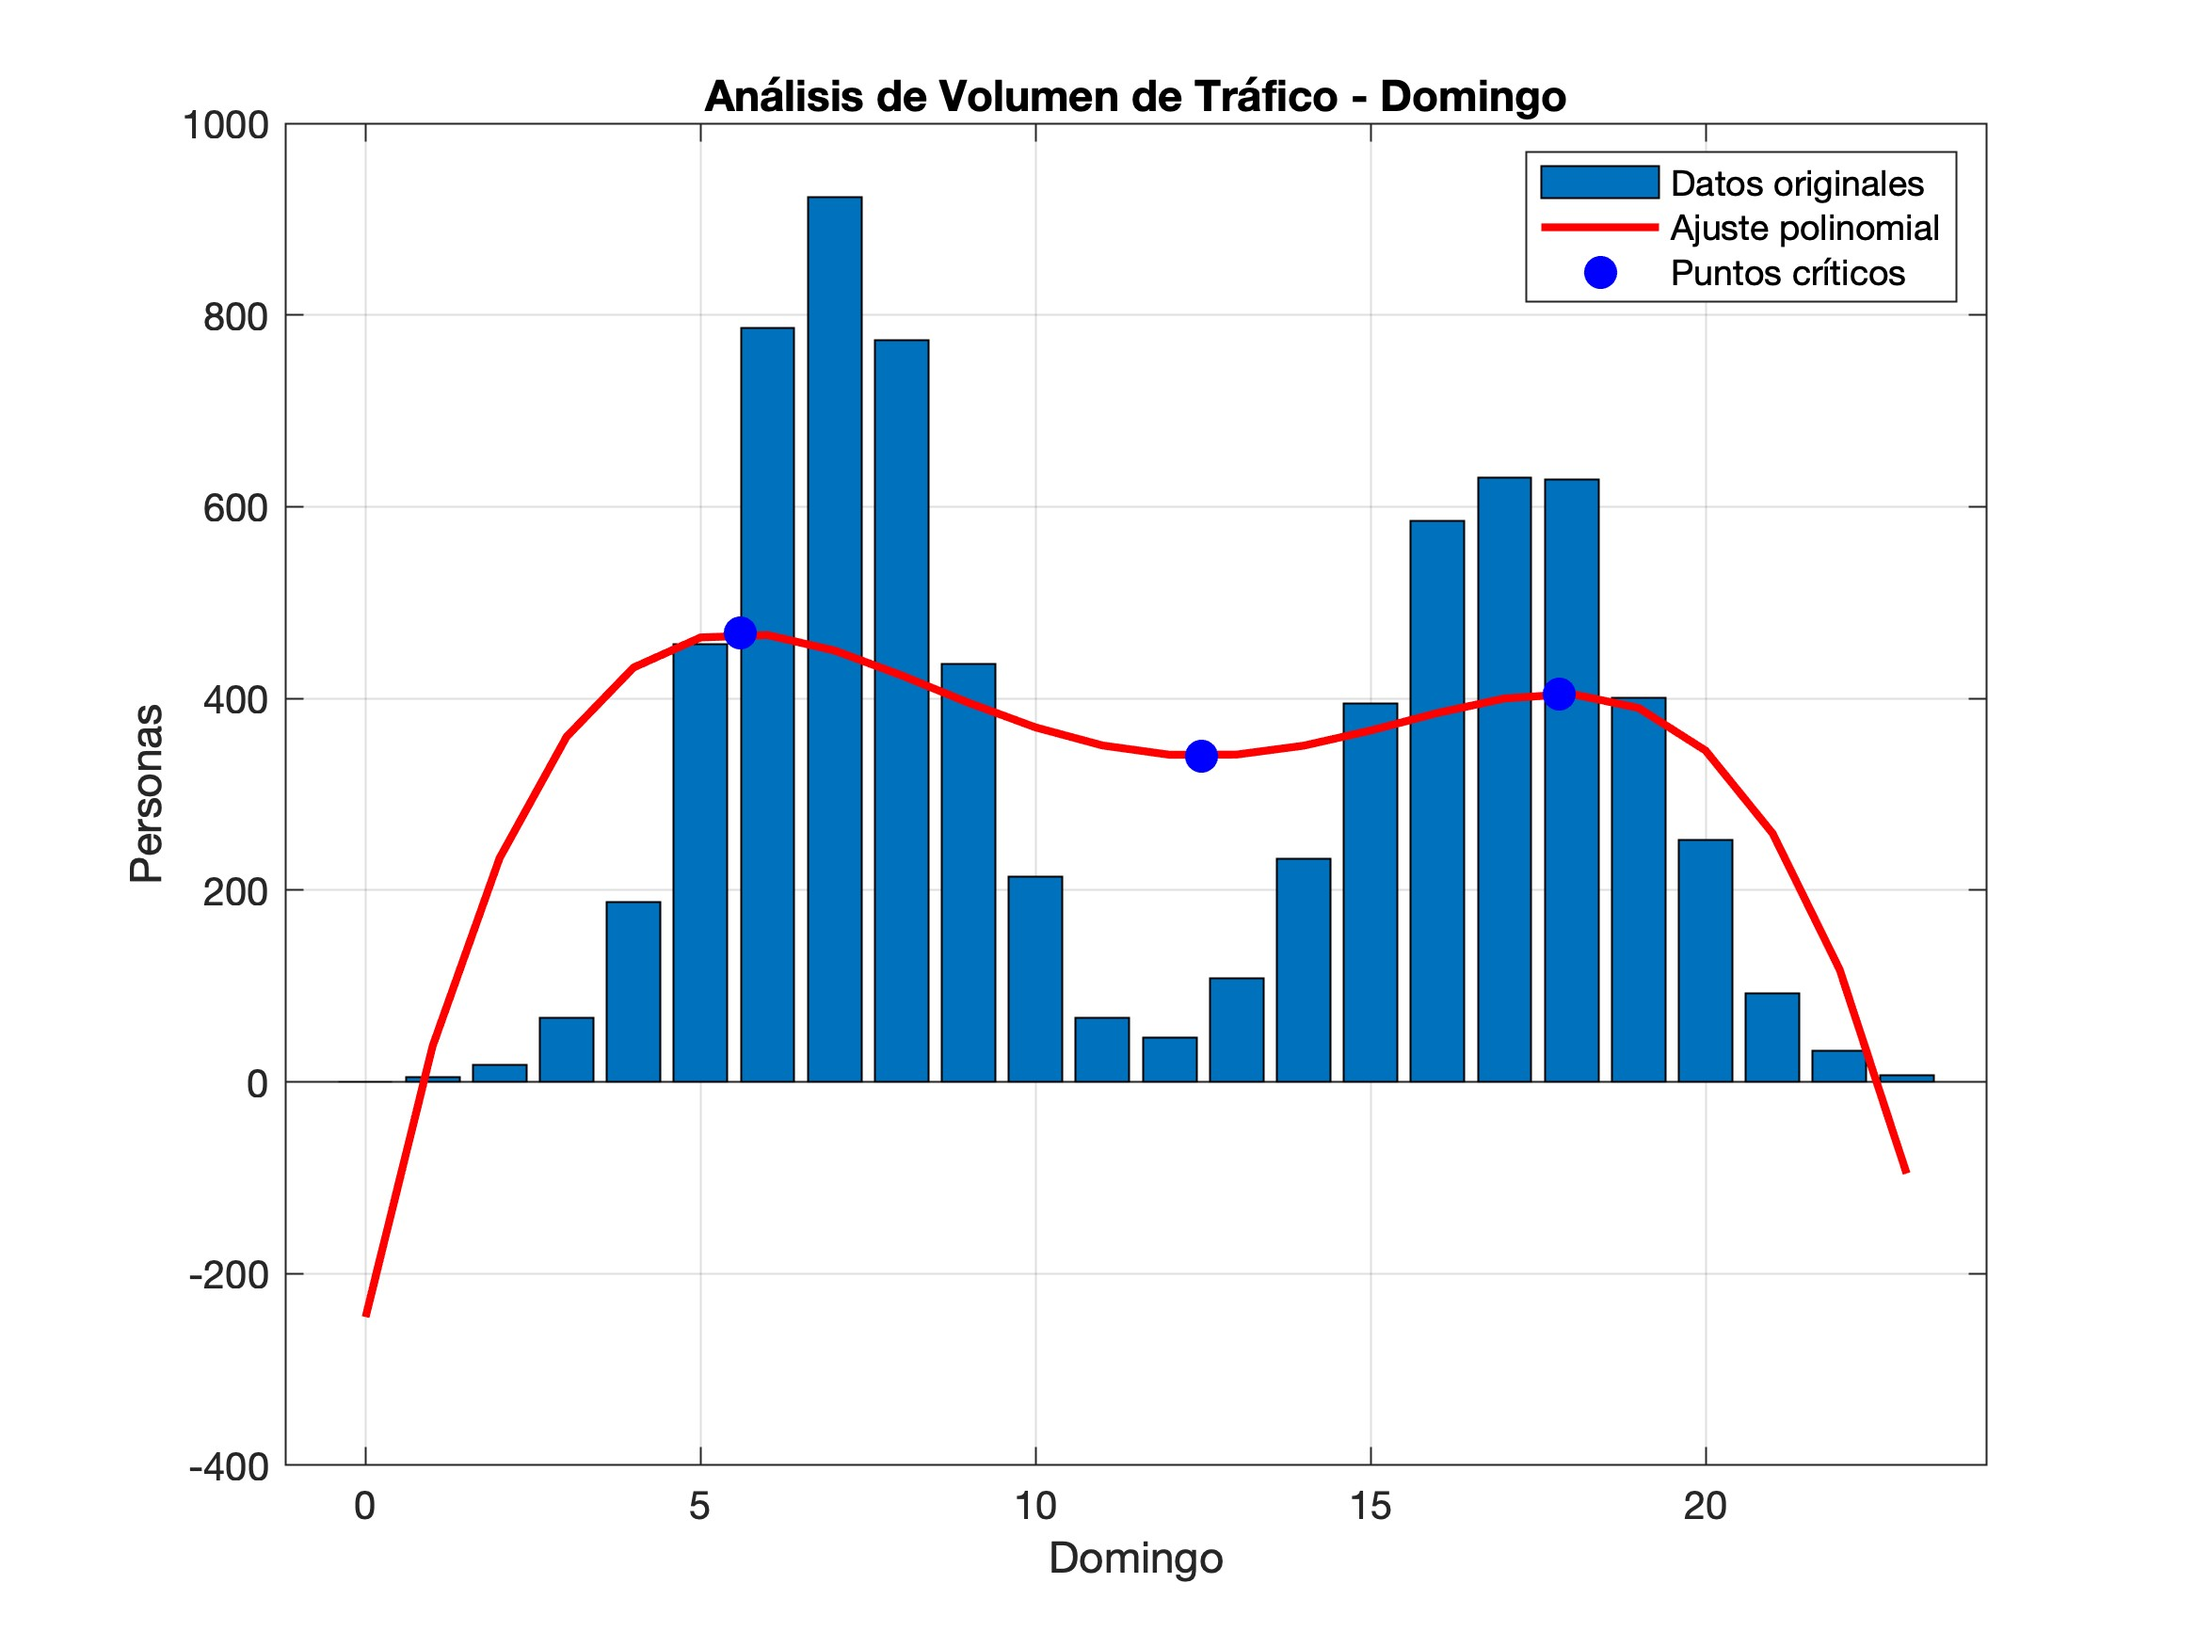
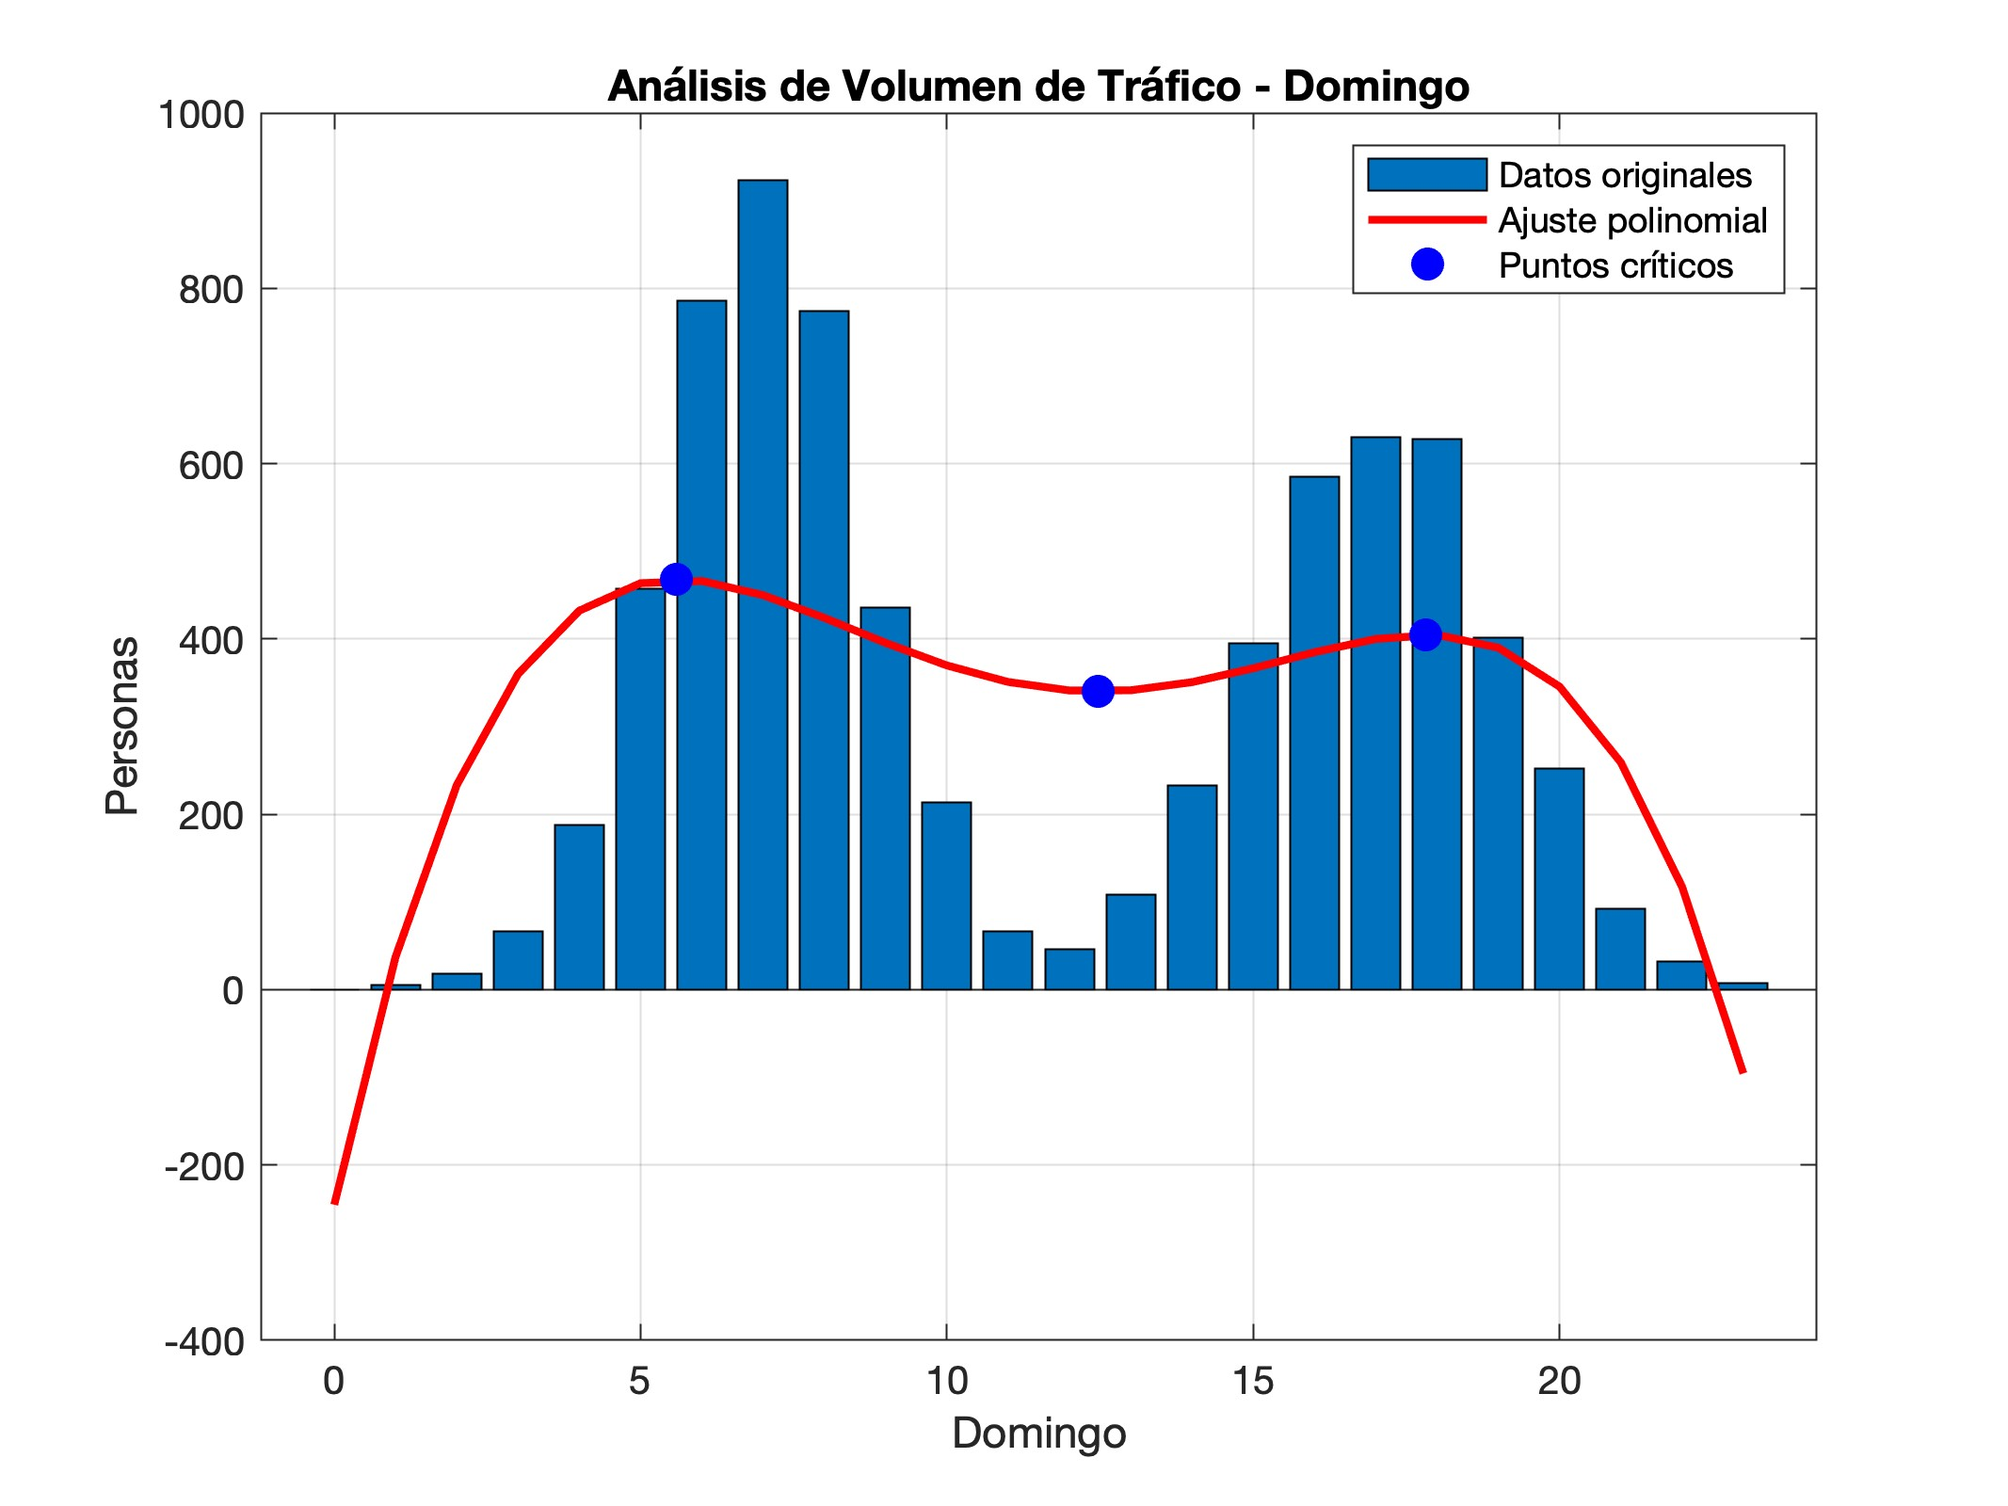
Update

diff --git a/src/20253/MatLab/Ejemplo002.m b/src/20253/MatLab/Ejemplo002.m
@@ -46,64 +46,65 @@ v_dias = ["Domingo", "Lunes", "Martes", "Miercoles", ...
           "Jueves", "Viernes", "Sabado"];
 
 %% Selección de parámetros de análisis
-s_dia = 1;       % Día a analizar (1=Domingo)
+s_dia = unique(data(:,1));       % Día a analizar
+n_dia = length(s_dia);
 ng = 4;          % Grado del polinomio de ajuste
 
-%% Filtrar datos por día seleccionado
-id_d = data(:,1) == s_dia;   % Índices de filas del día seleccionado
-x = data(id_d, 2);           % Variable independiente
-y = data(id_d, 3);           % Volumen de tráfico
-nm = length(x);              % Número de muestras
+for i1=1:n_dia
+    id_ts = (data(:,1) == s_dia(i1));
+    id_tr = ~id_ts;
+    x = data(id_tr, 2);           % Variable independiente
+    y = data(id_tr, 3);           % Volumen de tráfico
+    nm = length(x);              % Número de muestras
+    % Se construye la matriz de Vandermonde para resolver el sistema
+    ca = (x*ones(1, ng+1)).^(ones(nm,1)*(0:ng)) \ y;
 
-%% Ajuste polinomial de grado 'ng'
-% Se construye la matriz de Vandermonde para resolver el sistema
-ca = (x*ones(1, ng+1)).^(ones(nm,1)*(0:ng)) \ y;
+    % Evaluación del polinomio ajustado
+    ye = ((x*ones(1, ng+1)).^(ones(nm,1)*(0:ng))) * ca;
 
-% Evaluación del polinomio ajustado
-ye = ((x*ones(1, ng+1)).^(ones(nm,1)*(0:ng))) * ca;
+    %% Cálculo de derivadas y raíces
+    dca = ca(2:(ng+1)).*(1:ng)';        % Coeficientes de la 1a derivada
+    d2ca = dca(2:ng).*(1:(ng-1))';      % Coeficientes de la 2a derivada
+    rdca = roots(flip(dca));            % Raíces de la 1ª derivada (puntos críticos)
+    
+    % Evaluación del polinomio en los puntos críticos
+    rye = ((rdca*ones(1, ng+1)).^(ones(ng-1,1)*(0:ng))) * ca;
 
-%% Cálculo de derivadas y raíces
-dca = ca(2:(ng+1)).*(1:ng)';        % Coeficientes de la 1a derivada
-d2ca = dca(2:ng).*(1:(ng-1))';      % Coeficientes de la 2a derivada
-rdca = roots(flip(dca));            % Raíces de la 1ª derivada (puntos críticos)
-
-% Evaluación del polinomio en los puntos críticos
-rye = ((rdca*ones(1, ng+1)).^(ones(ng-1,1)*(0:ng))) * ca;
-
-pd = rye(ng/2);
-pd_s = ceil(pd)-pd;
-pd_i = pd-floor(pd);
-md = zeros(2, 2);
-xi = x(floor(rdca(2))>=x);
-hi = y(floor(rdca(2))>=x);
-hi(end) = round(pd_i*hi(end));
-xs = x(floor(rdca(2))<=x);
-hs = y(floor(rdca(2))<=x);
-hs(1) = hs(1)-hi(end);
-
-md(1, 1) = (xi'*hi)/sum(hi);
-md(1, 2) = ((xi.^2)'*hi)/sum(hi)-md(1, 1)^2;
-md(1, 3) = max(hi);
-md(2, 1) = (xs'*hs)/sum(hs);
-md(2, 2) = ((xs.^2)'*hs)/sum(hs)-md(2, 1)^2;
-md(2, 3) = max(hs);
-
-np = 500;
-vx = min(x):(max(x)-min(x))/np:max(x);
-vy1 = md(1,3)*exp(-((vx-md(1,1)).^2)/(2*md(1,2)));
-vy2 = md(2,3)*exp(-((vx-md(2,1)).^2)/(2*md(2,2)));
-vy = [vy1(vx<=rdca(2)) vy2(vx>rdca(2))];
-
-dm = md(1,1)-md(2,1);
-ds2 = md(1,2)-md(2,2);
-xr1 = (2*md(2,1)*md(1,2)-2*md(1,1)*md(2,2)+sqrt(md(1,2)*md(2,2)*(4*dm*dm-log((md(1,3)/md(2,3))^(8*ds2)))))/(2*ds2);
-xr2 = (2*md(2,1)*md(1,2)-2*md(1,1)*md(2,2)-sqrt(md(1,2)*md(2,2)*(4*dm*dm-log((md(1,3)/md(2,3))^(8*ds2)))))/(2*ds2);
-if(xr1>md(1,1)&&xr1<md(2,1))
-    xr = xr1;
-else
-    xr = xr2;
+    pd = rye(ng/2);
+    pd_s = ceil(pd)-pd;
+    pd_i = pd-floor(pd);
+    md = zeros(2, 3);
+    xi = x(floor(rdca(2))>=x);
+    hi = y(floor(rdca(2))>=x);
+    hi(xi==floor(rdca(2)))=round(hi(xi==floor(rdca(2)))*pd_i);
+    xs = x(floor(rdca(2))<=x);
+    hs = y(floor(rdca(2))<=x);
+    hs(xs==floor(rdca(2))) = hs(xs==floor(rdca(2)))-hi(xi==floor(rdca(2)));
+    
+    md(1, 1) = (xi'*hi)/sum(hi);
+    md(1, 2) = ((xi.^2)'*hi)/sum(hi)-md(1, 1)^2;
+    md(1, 3) = max(hi);
+    md(2, 1) = (xs'*hs)/sum(hs);
+    md(2, 2) = ((xs.^2)'*hs)/sum(hs)-md(2, 1)^2;
+    md(2, 3) = max(hs);
+    
+    np = 500;
+    vx = min(x):(max(x)-min(x))/np:max(x);
+    vy1 = md(1,3)*exp(-((vx-md(1,1)).^2)/(2*md(1,2)));
+    vy2 = md(2,3)*exp(-((vx-md(2,1)).^2)/(2*md(2,2)));
+    vy = [vy1(vx<=rdca(2)) vy2(vx>rdca(2))];
+    
+    dm = md(1,1)-md(2,1);
+    ds2 = md(1,2)-md(2,2);
+    xr1 = (2*md(2,1)*md(1,2)-2*md(1,1)*md(2,2)+sqrt(md(1,2)*md(2,2)*(4*dm*dm-log((md(1,3)/md(2,3))^(8*ds2)))))/(2*ds2);
+    xr2 = (2*md(2,1)*md(1,2)-2*md(1,1)*md(2,2)-sqrt(md(1,2)*md(2,2)*(4*dm*dm-log((md(1,3)/md(2,3))^(8*ds2)))))/(2*ds2);
+    if(xr1>md(1,1)&&xr1<md(2,1))
+        xr = xr1;
+    else
+        xr = xr2;
+    end
+    vy2 = [vy1(vx<=xr) vy2(vx>xr)];
 end
-vy2 = [vy1(vx<=xr) vy2(vx>xr)];
 
 
 %% Visualización de resultados

diff --git a/src/20253/MatLab/Test001.m b/src/20253/MatLab/Test001.m
@@ -1,0 +1,16 @@
+tic
+a = floor(rdca(2));
+a = a+1;
+mxx= zeros(1,n_dia-1);
+for i1=1:(n_dia-1)
+    idi = (i1-1)*a+1;
+    idf = i1*a;
+    mxx(i1) = max(hi(idi:idf));
+end
+mx1 = max(mxx);
+t1 = toc;
+
+tic
+x = hi(ones(6,1)*(1:13)+(0:5)'*13*ones(1,13));
+mx2 = max(x,[],2);
+t2 = toc;
